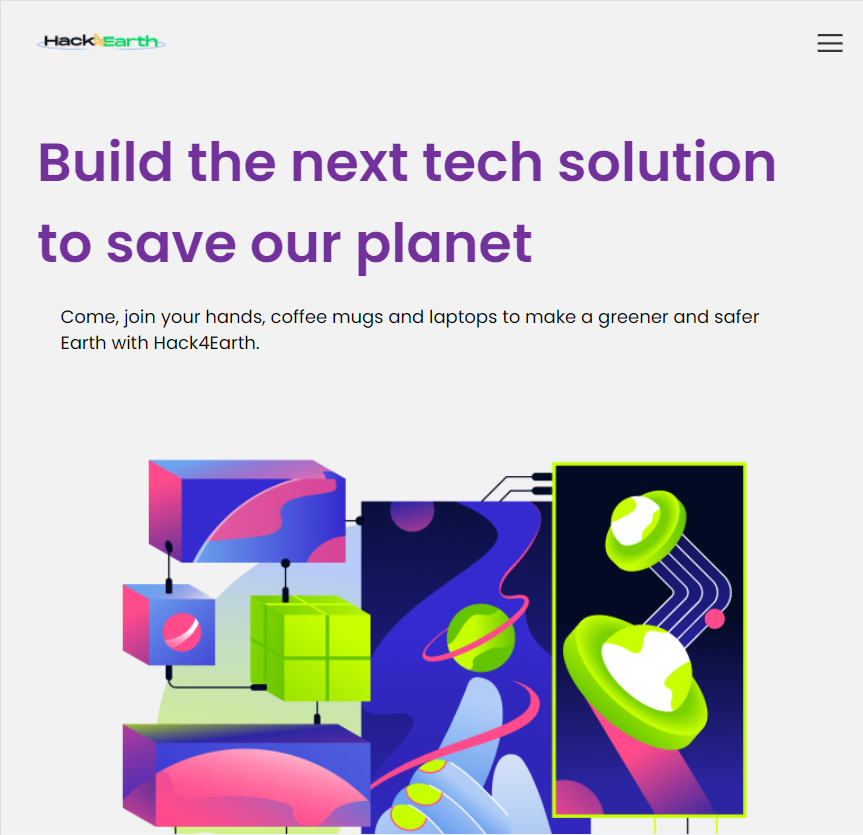
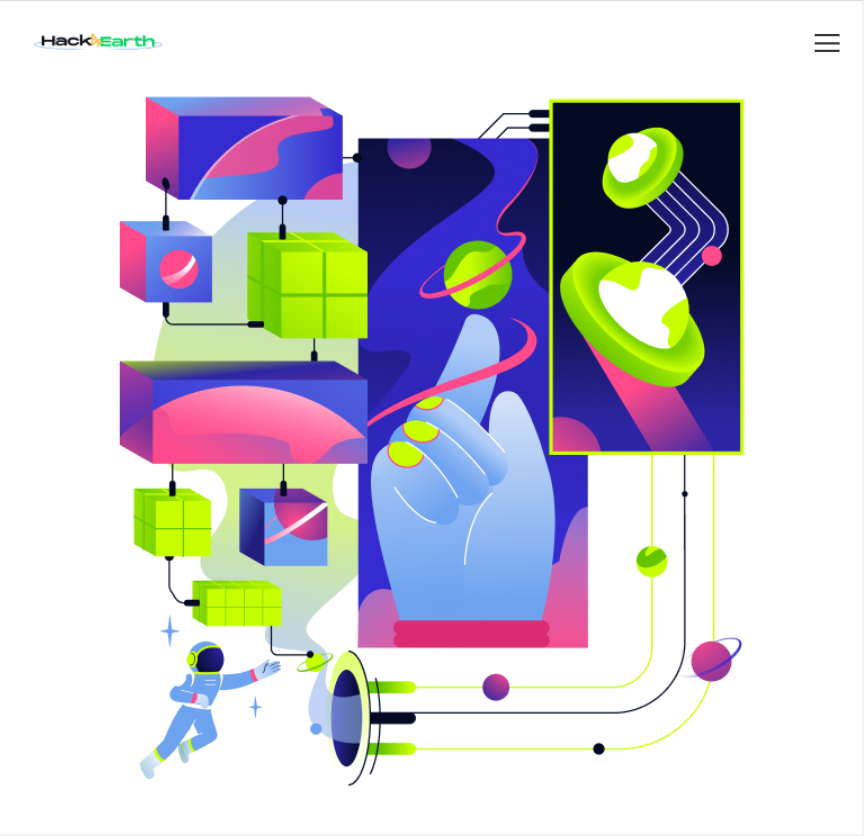
final hero animation

diff --git a/portfolio-v2/src/pages/portfolio/Projects.jsx b/portfolio-v2/src/pages/portfolio/Projects.jsx
@@ -9,45 +9,49 @@ const Projects = () => {
     {
       imgClass: 'projectrad',
       name: 'radioadspread',
-      stack: 'ReactJS, ChakraUI, GraphQL',
+      stack: 'ReactJS, ChakraUI, GraphQL.',
       bgColor: 'from-[#004643] via-[#004643]',
       textColor: 'text-[#f99b28]',
       desc: 'RadioAdSpread is an online platorm facilitating a marketplace for ad services via radio.',
       border: 'border-[#f99b28]',
-      background: 'bg-[#004643]'
+      background: 'bg-[#004643]',
+      link: 'https://radioadspread.com'
     },
 
     {
       imgClass: 'projectsu',
       name: 'Worker Registry',
-      stack: 'NextJS, TypeScript, SCSS ',
+      stack: 'NextJS, TypeScript, SCSS.',
       bgColor: 'from-[#f5f5f5] via-[#f5f5f5]',
       textColor: 'text-[#0071bb]',
-      desc: 'A worker registry application for Space Universe Africa',
+      desc: 'A worker registry search application for Space Universe Africa.',
       border: 'border-[#050505]',
-      background: 'bg-[#f5f5f5]'
+      background: 'bg-[#f5f5f5]',
+      link: 'worker-registry.vercel.app'
     },
 
     {
       imgClass: 'projectula',
       name: 'ulesawards',
-      stack: 'NextJS, Typescript, Tailwind',
+      stack: 'NextJS, Typescript, Redux, Tailwind.',
       bgColor: 'from-[#141414] via-[#141414]',
       textColor: 'text-[#c7291f]',
       desc: 'fully functional voting platform for the ULES dinner awards.',
       border: 'border-[#c7291f]',
-      background: 'bg-[#141414]'
+      background: 'bg-[#141414]',
+      link: 'https://ulesawards.tech'
     },
 
     {
       imgClass: 'projecth4e',
       name: 'Hack4Earth',
-      stack: 'HTML, SCSS, JavaScript',
+      stack: 'HTML, SCSS, JavaScript.',
       bgColor: 'from-[#f2f2f2] via-[#f2f2f2]',
       textColor: 'text-[#72319B]',
-      desc: 'The official website for the Hack4Earth hackathon fully built by me.',
-      border: 'border-[#72319B]',
-      background: 'bg-[#f2f2f2]'
+      desc: 'The official website for the Hack4Earth hackathon.',
+      border: 'border-[#c8ff00]',
+      background: 'bg-[#f2f2f2]',
+      link: 'hack4earth.vercel.app'
     }
   ]
 
@@ -62,13 +66,12 @@ const Projects = () => {
         initial={{ width: 0 }}
         whileInView={{ width: '90%' }}
         transition={{ duration: 0.5, delay: 1.5 }}
-        viewport={{ once: true }}
         layout
         className='border-4 backdrop  border-[#ff4040] origin-center flex h-[95%] z-10'>
         <motion.div
           initial={{ opacity: 0 }}
           whileInView={{ opacity: 1 }}
-          transition={{ duration: 0.5, delay: 2 }}
+          transition={{ duration: 0.5, delay: 2.5 }}
           style={{ scrollSnapType: 'x mandatory' }}
           className='flex-nowrap projects items-center flex  gap-28 overflow-x-scroll h-full'>
           {projectData.map((project, index) => (

diff --git a/portfolio-v2/src/components/dynamic/HeroMainTag.jsx b/portfolio-v2/src/components/dynamic/HeroMainTag.jsx
@@ -1,54 +1,29 @@
-import { useState, useEffect } from 'react'
-import { motion } from 'framer-motion'
-import TagTextMask from '../masks/TagTextMask'
+import React, { useEffect } from 'react';
+import Typed from 'typed.js';
 
-const HeroMainTag = () => {
+const TypingAnimation = () => {
+    useEffect(() => {
+        const options = {
+            strings: ["web-sites", "web-apps", "web-Interfaces", "web-anything", "web-everything"],
+            typeSpeed: 100,
+            backSpeed: 100,
+            backDelay: 1000,
+            loop: true,
+            showCursor: false,
+        };
 
-  const TagTexts = ["websites", "webapps", "web interfaces", "web-anything", "web-everything"]
-  const [tagIndex, setTagIndex] = useState(0);
-  const order = [0, 1, 2, 3, 4];
-  let tagDelay;
-  let tagInterval;
- 
+        const typed = new Typed('.typing-effect', options);
 
+        return () => {
+            typed.destroy(); // Cleanup when the component unmounts
+        };
+    }, []);
 
-  useEffect(() => {
-    tagDelay = setTimeout(() => {
-      tagInterval = setInterval(() => {
-        setTagIndex((prevIndex) => {
-          const nextIndex = (order.indexOf(prevIndex) + 1) % order.length;
-          return order[nextIndex];
-        });
-      }, 3000);
-    }, 6000);
+    return (
+        <div className="typing-effect">
+            <span className="typed-text"></span>
+        </div>
+    );
+};
 
-    return () => {
-      clearTimeout(tagDelay);
-      clearInterval(tagInterval);
-    };
-
-  }, [])
-
-  const tagText = TagTexts[tagIndex];
-
-
-
-
-  return (
-    <div className='relative'>
-      <div className='absolute z-10 left-0 top-0 grid grid-cols-4 gap-0 w-full h-full'>
-      <TagTextMask delay={8}/>
-      <TagTextMask delay={8.3}/>
-      <TagTextMask delay={8.7}/>
-      <TagTextMask delay={8.1}/>
-      <TagTextMask delay={8.4}/>
-      <TagTextMask delay={8.2}/>
-      <TagTextMask delay={8.5}/>
-      <TagTextMask delay={8.6}/>
-      </div>
-      <motion.h1 className='text-[#ff3e3e]'>{tagText}</motion.h1>
-    </div>
-  )
-}
-
-export default HeroMainTag
+export default TypingAnimation;

diff --git a/portfolio-v2/src/components/text/ProjectCard.jsx b/portfolio-v2/src/components/text/ProjectCard.jsx
@@ -1,10 +1,10 @@
 import React from 'react'
 import { motion } from 'framer-motion'
+import Link from 'next/link'
 
-const ProjectCard = ({ imgClass, name, textColor, background, bgColor, border, desc, stack }) => {
+const ProjectCard = ({ imgClass, name, textColor, background, bgColor, border, desc, stack, link }) => {
     return (
         <motion.div style={{ scrollSnapAlign: 'center' }}
-            viewport={{ once: true }}
             className={`md:h-[90%] md:w-[70%] h-[75%] w-[90%] ${background} flex justify-center items-center flex-none mx-40 relative z-[5] rounded-md`}>
             <div className={`w-[90%] h-[90%] border-2 ${border} rounded-md relative`}>
                 <div className={`absolute z-[1] ${imgClass} w-full h-1/2 top-0 rounded-md`}>
@@ -12,11 +12,11 @@ const ProjectCard = ({ imgClass, name, textColor, background, bgColor, border, d
 
                 <div className={`w-full h-full absolute z-[5] top-0 ${textColor} bg-gradient-to-t ${bgColor} to-transparent flex flex-col rounded-md justify-end`}>
 
-                    <div className='self-start h-1/2 md:h-auto p-4 px-6 font-bebas flex flex-col'>
+                    <div className='self-start h-1/2 md:h-auto lg:h-1/2 md:py-2 p-4 px-6 font-bebas justify-between flex flex-col'>
                         <h1 className='lg:text-[50px] text-[35px]'>{name}</h1>
-                        <p className='lg:text-[25px] text-[20px] mb-4'>Built with {stack}</p>
+                        <p className='lg:text-[25px] text-[20px] '>Built with {stack}</p>
                         <p className='lg:text-[20px] text-[15px]'>{desc}</p>
-                        <p className='lg:text-[20px] mt-8 text-[15px]'>LIVE LINK</p>
+                        <Link href={link} target='_blank' className='lg:text-[20px] text-[15px]'>Live link</Link>
 
                     </div>
                 </div>

diff --git a/portfolio-v2/src/pages/portfolio/About.jsx b/portfolio-v2/src/pages/portfolio/About.jsx
@@ -81,11 +81,11 @@ const About = () => {
           <AboutSlice text="I always stay up to date on by" />
           <AboutSlice text="constantly adding new" />
           <AboutSlice text="technologies to my skillset." />
-          <motion.div initial={{ opacity: 0, y: 50 }} whileInView={{ opacity: 1, y: 0 }} transition={{ delay: 3, duration: 0.5 }} onMouseOver={HandleHover} onMouseLeave={HandleHover} className='relative'>kinda like thanos collecting infinity stones.
+          <motion.div initial={{ opacity: 0, y: 50 }} whileInView={{ opacity: 1, y: 0 }} transition={{ delay: 3, duration: 0.5 }} onMouseOver={HandleHover} onMouseLeave={HandleHover} className='relative mb-8'>kinda like thanos collecting infinity stones.
             <Image src={thanos}
-              width={200}
+              width={150}
               alt='loop'
-              className='absolute bottom-[100%] right-10 lg:right-96 rotate-12 z-10'
+              className='absolute bottom-[100%] w-[100px] lg:w-[150px] right-0 lg:right-20 rotate-12 z-10'
             />
           </motion.div>
 

diff --git a/portfolio-v2/src/pages/index.js b/portfolio-v2/src/pages/index.js
@@ -17,8 +17,8 @@ const Home = () => {
 
     <div className={`w-[100vw] relative h-full overflow-x-hidden ${isDark ? 'bg-[#090909] text-[#d6d6d6]' : 'bg-[#d6d6d6] text-[#090909]'}  `}>
       <Gears/>
-      <div className={`w-full fixed top-0 z-[15] bg-gradient-to-b h-[15vh] ${isDark ? 'from-[#090909]' : 'from-transparent'} to-transparent `}></div>
-      <div className={`w-full fixed bottom-0 z-[15] bg-gradient-to-t  h-[15vh] ${isDark ? 'from-[#090909]' : 'from-transparent'} to-transparent`}></div>
+      <div className={`w-full fixed top-0 z-[15] bg-gradient-to-b h-[15vh] ${isDark ? 'from-[#090909]' : 'from-[#d6d6d6]'} to-transparent `}></div>
+      <div className={`w-full fixed bottom-0 z-[15] bg-gradient-to-t  h-[15vh] ${isDark ? 'from-[#090909]' : 'from-[#d6d6d6]'} to-transparent`}></div>
       <CustomCursor />
       <LoadingScreen />
       <Hero />

diff --git a/portfolio-v2/src/components/text/HeroMainText.jsx b/portfolio-v2/src/components/text/HeroMainText.jsx
@@ -21,7 +21,7 @@ const HeroMainText = () => {
       </div>
 
       <div className='relative classname flex h-1/4' >
-        <motion.h1 className=' text-[#ff4040]' initial={{ opacity: 0, y: 100 }} animate={{ opacity: 1, y: 0 }} transition={{ duration: 0.8, delay: 6.9 }} >websites
+        <motion.h1 className=' text-[#ff4040]' initial={{ opacity: 0, y: 100 }} animate={{ opacity: 1, y: 0 }} transition={{ duration: 0.8, delay: 6.9 }} ><HeroMainTag/>
         </motion.h1>
       </div>
 

diff --git a/portfolio-v2/src/components/dynamic/DateTime.jsx b/portfolio-v2/src/components/dynamic/DateTime.jsx
@@ -22,7 +22,7 @@ const DateTime = () => {
     const formattedTime = format(currentTime, 'HH:mm:ss');
 
     return (
-        <div className='font-bebas text-md flex flex-col gap-2 fixed z-10 bottom-8 right-8'>
+        <div className='font-bebas text-md flex flex-col gap-2 fixed z-[15] bottom-8 right-8'>
             <div className='text-[#ff3e3e]' suppressHydrationWarning>{formattedTime}</div>
             <div suppressHydrationWarning>{formattedDate}</div>
         </div>

diff --git a/portfolio-v2/src/styles/globals.css b/portfolio-v2/src/styles/globals.css
@@ -78,4 +78,11 @@
     background-image: url('../assets/h4e.PNG');
     background-size: cover;
   }
+
+  .typed-cursor {
+    display: inline-block; /* Make it inline with the text */
+    vertical-align: text-bottom; /* Adjust vertical alignment */
+    width: 0.1em; /* Adjust the width of the cursor */
+    height: 1em; /* Adjust the height of the cursor */
+  }
 }

diff --git a/portfolio-v2/src/components/dynamic/LoadingBar.jsx b/portfolio-v2/src/components/dynamic/LoadingBar.jsx
@@ -31,7 +31,7 @@ const LoadingBar = () => {
       <motion.div
         className='flex flex-col items-start gap-4 relative w-full' layout>
         <motion.div
-          initial={{ height: '7vh', opacity: 1 }}
+          initial={{ height: '5vh', opacity: 1 }}
           animate={loadBar}
           style={{
             width: '0vw',

diff --git a/portfolio-v2/src/components/dynamic/Gears.jsx b/portfolio-v2/src/components/dynamic/Gears.jsx
@@ -13,7 +13,7 @@ const Gears = () => {
     const scRotate2 = useTransform(
         scrollYProgress,
         [0, 1],
-        [-30, -60]
+        [-30, -120]
     )
     const spring1 = useSpring(scRotate, {
         stiffness: 100,
